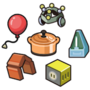
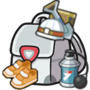
double up: some tweaks in bundles
- health bundle now gives hp to both players
- tool bundle gives 3 tools for 20 gold
- change tool bundle icon
- add gold icon to bundle propositions

diff --git a/app/services/armory-options.ts b/app/services/armory-options.ts
@@ -166,28 +166,29 @@ const giftRandomPokemonByRarity = (toPlayer: Player, rarity: Rarity): boolean =>
     return true
 }
 
-const giftPotion = (toPlayer: Player): boolean => {
+const giftPotion = (toPlayer: Player, fromPlayer: Player): boolean => {
     toPlayer.life = Math.min(100, (toPlayer.life + 10))
+    fromPlayer.life = Math.min(100, (toPlayer.life + 10))
     return true
 }
 
-export const armoryGiftService: { [key in ArmoryOptions ]? : (playerId: Player) => boolean } = {
-    [FreeOptions.BERRYBUNDLE]: (playerId: Player) => giftAmountOfItem(playerId, 7, "BERRIES"),
-    [FreeOptions.SWEETSBUNDLE]: (playerId: Player) => giftAmountOfItem(playerId, 5, "SWEETS"),
-    [FreeOptions.UNOWNBUNDLE]: (playerId: Player) => giftAmountOfPokemon(playerId, 5, Pkm.UNOWN_A),
-    [FreeOptions.DITTOBUNDLE]: (playerId: Player) => giftAmountOfPokemon(playerId, 1, Pkm.DITTO),
-    [FreeOptions.TICKETBUNDLE] : (playerId: Player) => giftSetOfItems(playerId, "TICKETS"),
-    [FreeOptions.HATCHBUNDLE] : (playerId: Player) => giftHatchPokemon(playerId, 2),
+export const armoryGiftService: { [key in ArmoryOptions ]? : (toPlayer: Player, fromPlayer: Player) => boolean } = {
+    [FreeOptions.BERRYBUNDLE]: (toPlayer: Player, fromPlayer: Player) => giftAmountOfItem(toPlayer, 7, "BERRIES"),
+    [FreeOptions.SWEETSBUNDLE]: (toPlayer: Player, fromPlayer: Player) => giftAmountOfItem(toPlayer, 5, "SWEETS"),
+    [FreeOptions.UNOWNBUNDLE]: (toPlayer: Player, fromPlayer: Player) => giftAmountOfPokemon(toPlayer, 5, Pkm.UNOWN_A),
+    [FreeOptions.DITTOBUNDLE]: (toPlayer: Player, fromPlayer: Player) => giftAmountOfPokemon(toPlayer, 1, Pkm.DITTO),
+    [FreeOptions.TICKETBUNDLE] : (toPlayer: Player, fromPlayer: Player) => giftSetOfItems(toPlayer, "TICKETS"),
+    [FreeOptions.HATCHBUNDLE] : (toPlayer: Player, fromPlayer: Player) => giftHatchPokemon(toPlayer, 2),
     
-    [PaidOptions.GEMSBUNDLE] : (playerId: Player) => giftAmountOfItem(playerId, 3, "GEMS"),
-    [PaidOptions.POTION] : (playerId: Player) => giftPotion(playerId),
-    [PaidOptions.DELUXE_BOX] : (playerId: Player) => giftAmountOfItem(playerId, 2, "COMBINED_ITEMS"),
-    [PaidOptions.TOOLBUNDLE] : (playerId: Player) => giftAmountOfItem(playerId, 2, "TOOLS"),
-    [PaidOptions.COMMONBUNDLE] : (playerId: Player) => giftRandomPokemonByRarity(playerId, Rarity.COMMON),
-    [PaidOptions.UNCOMMONBUNDLE] : (playerId: Player) => giftRandomPokemonByRarity(playerId, Rarity.UNCOMMON),
-    [PaidOptions.RAREBUNDLE] : (playerId: Player) => giftRandomPokemonByRarity(playerId, Rarity.RARE),
-    [PaidOptions.EPICBUNDLE] : (playerId: Player) => giftRandomPokemonByRarity(playerId, Rarity.EPIC),
-    [PaidOptions.ULTRABUNDLE] : (playerId: Player) => giftRandomPokemonByRarity(playerId, Rarity.ULTRA),
-    [PaidOptions.UNIQUEBUNDLE] : (playerId: Player) => giftRandomPokemonByRarity(playerId, Rarity.UNIQUE),
-    [PaidOptions.LEGENDARYBUNDLE] : (playerId: Player) => giftRandomPokemonByRarity(playerId, Rarity.LEGENDARY),
+    [PaidOptions.GEMSBUNDLE] : (toPlayer: Player, fromPlayer: Player) => giftAmountOfItem(toPlayer, 3, "GEMS"),
+    [PaidOptions.POTION] : (toPlayer: Player, fromPlayer: Player) => giftPotion(toPlayer, fromPlayer),
+    [PaidOptions.DELUXE_BOX] : (toPlayer: Player, fromPlayer: Player) => giftAmountOfItem(toPlayer, 2, "COMBINED_ITEMS"),
+    [PaidOptions.TOOLBUNDLE] : (toPlayer: Player, fromPlayer: Player) => giftAmountOfItem(toPlayer, 3, "TOOLS"),
+    [PaidOptions.COMMONBUNDLE] : (toPlayer: Player, fromPlayer: Player) => giftRandomPokemonByRarity(toPlayer, Rarity.COMMON),
+    [PaidOptions.UNCOMMONBUNDLE] : (toPlayer: Player, fromPlayer: Player) => giftRandomPokemonByRarity(toPlayer, Rarity.UNCOMMON),
+    [PaidOptions.RAREBUNDLE] : (toPlayer: Player, fromPlayer: Player) => giftRandomPokemonByRarity(toPlayer, Rarity.RARE),
+    [PaidOptions.EPICBUNDLE] : (toPlayer: Player, fromPlayer: Player) => giftRandomPokemonByRarity(toPlayer, Rarity.EPIC),
+    [PaidOptions.ULTRABUNDLE] : (toPlayer: Player, fromPlayer: Player) => giftRandomPokemonByRarity(toPlayer, Rarity.ULTRA),
+    [PaidOptions.UNIQUEBUNDLE] : (toPlayer: Player, fromPlayer: Player) => giftRandomPokemonByRarity(toPlayer, Rarity.UNIQUE),
+    [PaidOptions.LEGENDARYBUNDLE] : (toPlayer: Player, fromPlayer: Player) => giftRandomPokemonByRarity(toPlayer, Rarity.LEGENDARY),
 }

diff --git a/app/public/src/pages/component/game/game-choice.tsx b/app/public/src/pages/component/game/game-choice.tsx
@@ -214,8 +214,9 @@ export default function GameChoice() {
                 <p style={{ marginBottom: "0.5em" }}>
                   {addIconsToDescription(t(`armory_description.${option}`))}
                 </p>
-                <p style={{ marginBottom: "0.5em", fontWeight: "bold"}}>
-                  {ArmoryOptionsPrice[option]} GOLD
+                <p style={{ marginBottom: "0.5em", fontWeight: "bold", fontSize: "1.5rem"}}>
+                  {ArmoryOptionsPrice[option]} 
+                  <img className="icon-money" src="/assets/icons/money.svg" alt="$" style={{ marginLeft: "0.25em", width: "1.5rem", height: "1.5rem" }}/>
                 </p>
               </div>
             ))}

diff --git a/app/rooms/game-room.ts b/app/rooms/game-room.ts
@@ -1305,7 +1305,7 @@ export default class GameRoom extends Room<{ state: GameState }> {
       const giftEffect = armoryGiftService[gift]
 
       // Process each gift - each armory option has its corresponding function to trigger
-      const res = giftEffect?.(partner);
+      const res = giftEffect?.(partner, player);
 
       if (!res) return
       player.money -= ArmoryOptionsPrice[gift]

diff --git a/app/types/enum/ArmoryOptions.ts b/app/types/enum/ArmoryOptions.ts
@@ -33,7 +33,7 @@ export const ArmoryOptionsPrice: { [key in ArmoryOptions ] : number } = {
     [PaidOptions.GEMSBUNDLE] : 5,
     [PaidOptions.POTION] : 5,
     [PaidOptions.DELUXE_BOX] : 15,
-    [PaidOptions.TOOLBUNDLE] : 15,
+    [PaidOptions.TOOLBUNDLE] : 20,
     [PaidOptions.COMMONBUNDLE] : 15,
     [PaidOptions.UNCOMMONBUNDLE] : 6,
     [PaidOptions.RAREBUNDLE] : 9,
